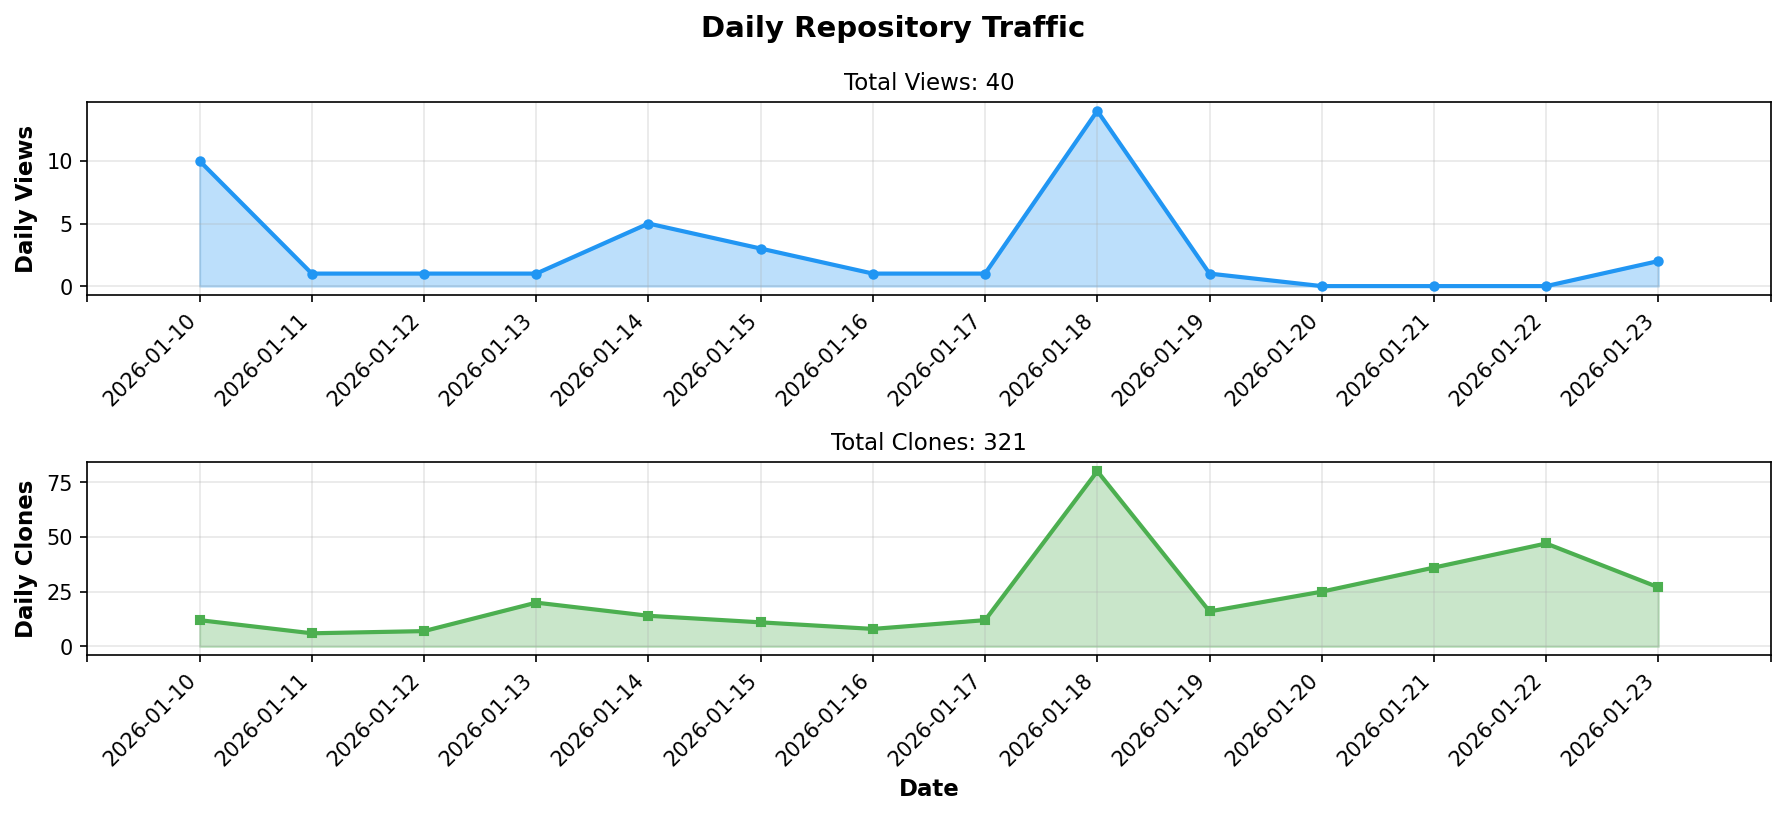
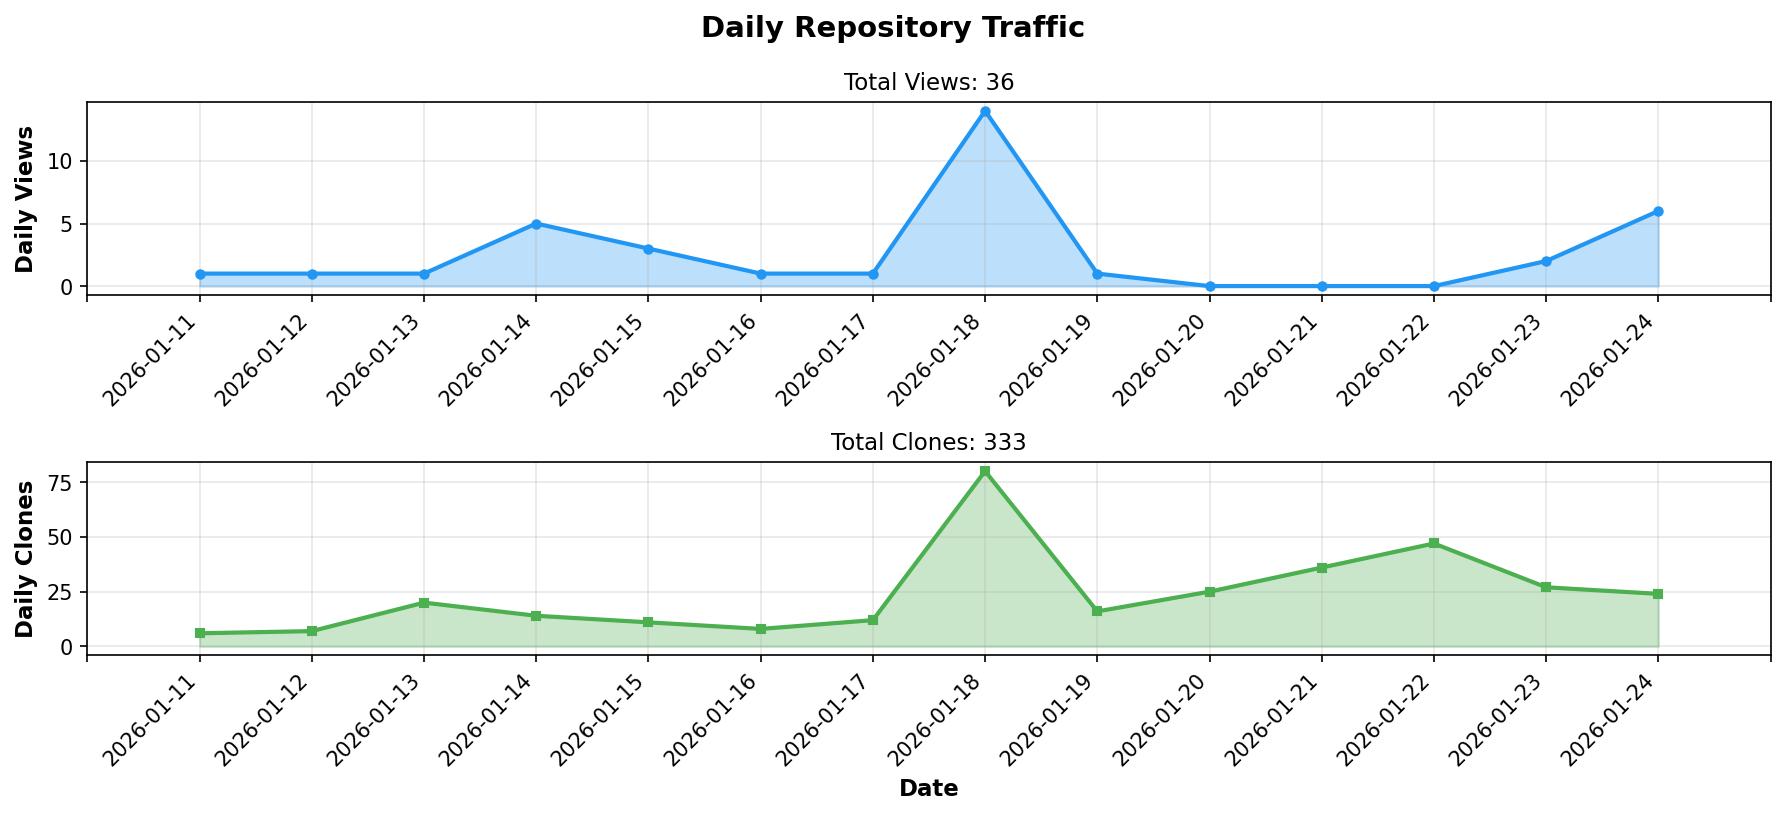
chore: update repository stats [skip ci]

diff --git a/README.md b/README.md
@@ -226,10 +226,10 @@ Development is progressing smoothly, and we strive to update daily!
 
 | Metric | Count |
 |--------|-------|
-| 👁 **Total Views** / 総閲覧数 | **40** |
-| 📦 **Total Clones** / 総クローン数 | **321** |
+| 👁 **Total Views** / 総閲覧数 | **36** |
+| 📦 **Total Clones** / 総クローン数 | **333** |
 
-*Last Updated / 最終更新: 2026-01-25 01:38 UTC*
+*Last Updated / 最終更新: 2026-01-26 01:40 UTC*
 
 </div>
 <!-- STATS_END -->
